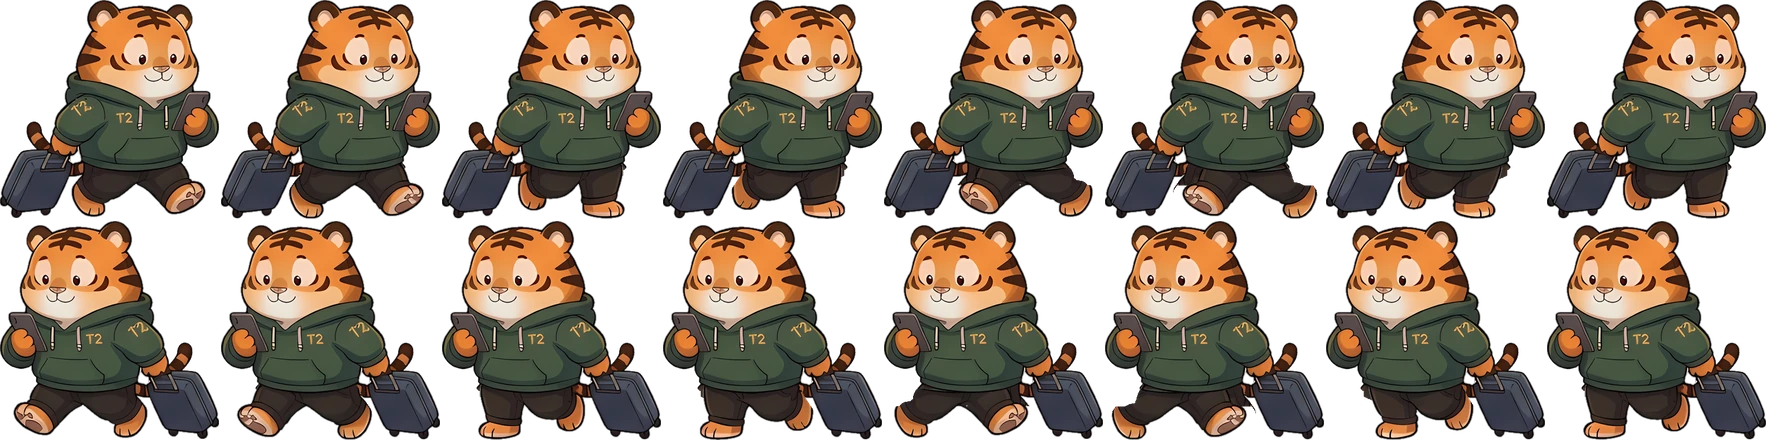
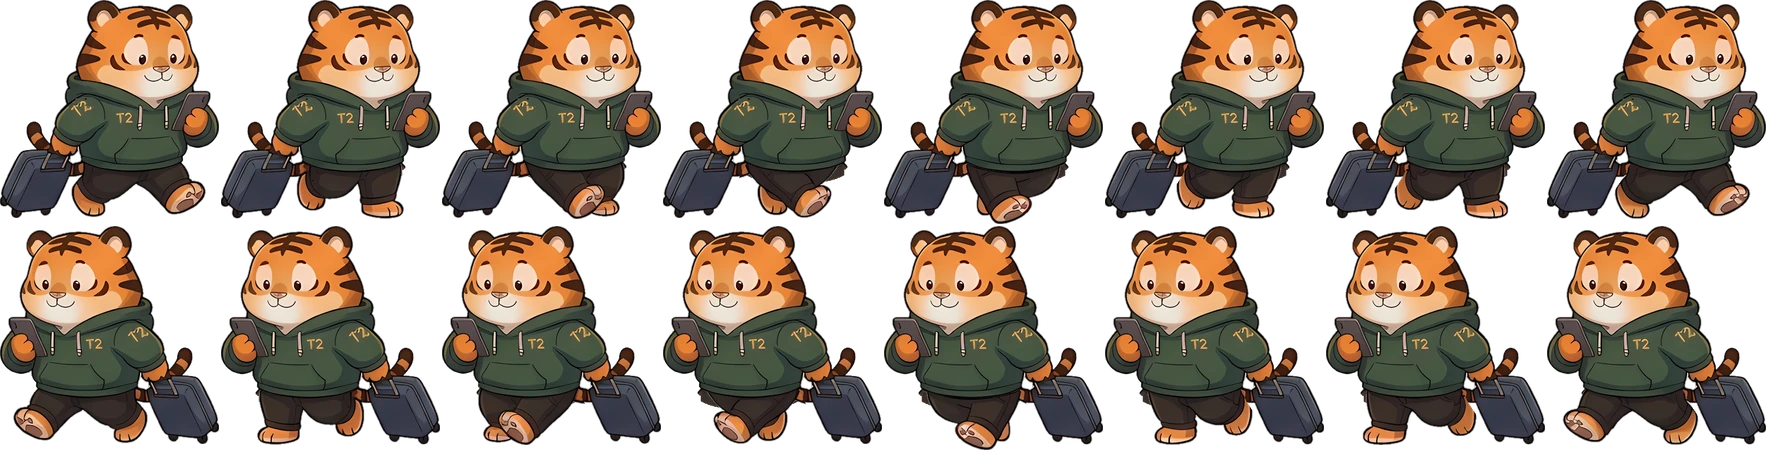
호랑이 걷기를 이전 순서로 되돌림: 다리 뒤집기로 만든 반대발 자세는 발끝 방향이 뒤바뀌고 프레임이 겹쳐 보여 제외
몸 고정(들썩임 없음)과 부드러운 이동은 유지, 전진 속도는 디딘 발 측정값에 맞춰 25로

Claude-Session: https://claude.ai/code/session_012VFbGgDXK9mz8qoLwWp9w1

diff --git a/art/tools/build_tiger_walker.py b/art/tools/build_tiger_walker.py
@@ -24,12 +24,14 @@ ROOT = Path(__file__).resolve().parents[2]
 CELLS = ROOT / 'art/cutouts/tiger_walk_b'
 SRC = CELLS / 'loop'
 TOOLS = Path(__file__).resolve().parent
-# leg order: contact, contact, passing, passing, other-foot contact (flipped legs) x2, passing x2
-ORDER = ['10', '20', '02', '22', 'm10', 'm20', '30', '02']
+# leg order (as drawn by Gemini, put in pose order). The flipped-legs poses ('m..', mirror_legs.py)
+# turned out worse - toes pointing backward, a doubled frame - so they are not used until a proper
+# "other foot forward" drawing arrives (docs/LOUNGE_ART_PROMPTS.md).
+ORDER = ['10', '02', '03', '13', '31', '30', '22', '20']
 BASE = '10'               # the upper body every frame shares
 OUT = ROOT / 'ui/web/lounge/assets/chars/tiger_walker'
 SCALE = 0.62          # atlas pixels per source pixel (keeps the atlas small)
-FPS, ADVANCE = 10, 22  # frames per second, scene px moved per frame (matches the planted foot, see footslip check)
+FPS, ADVANCE = 10, 25  # frames per second, scene px moved per frame (matches the planted foot, see footslip check)
 
 
 def anchor_x(im):
